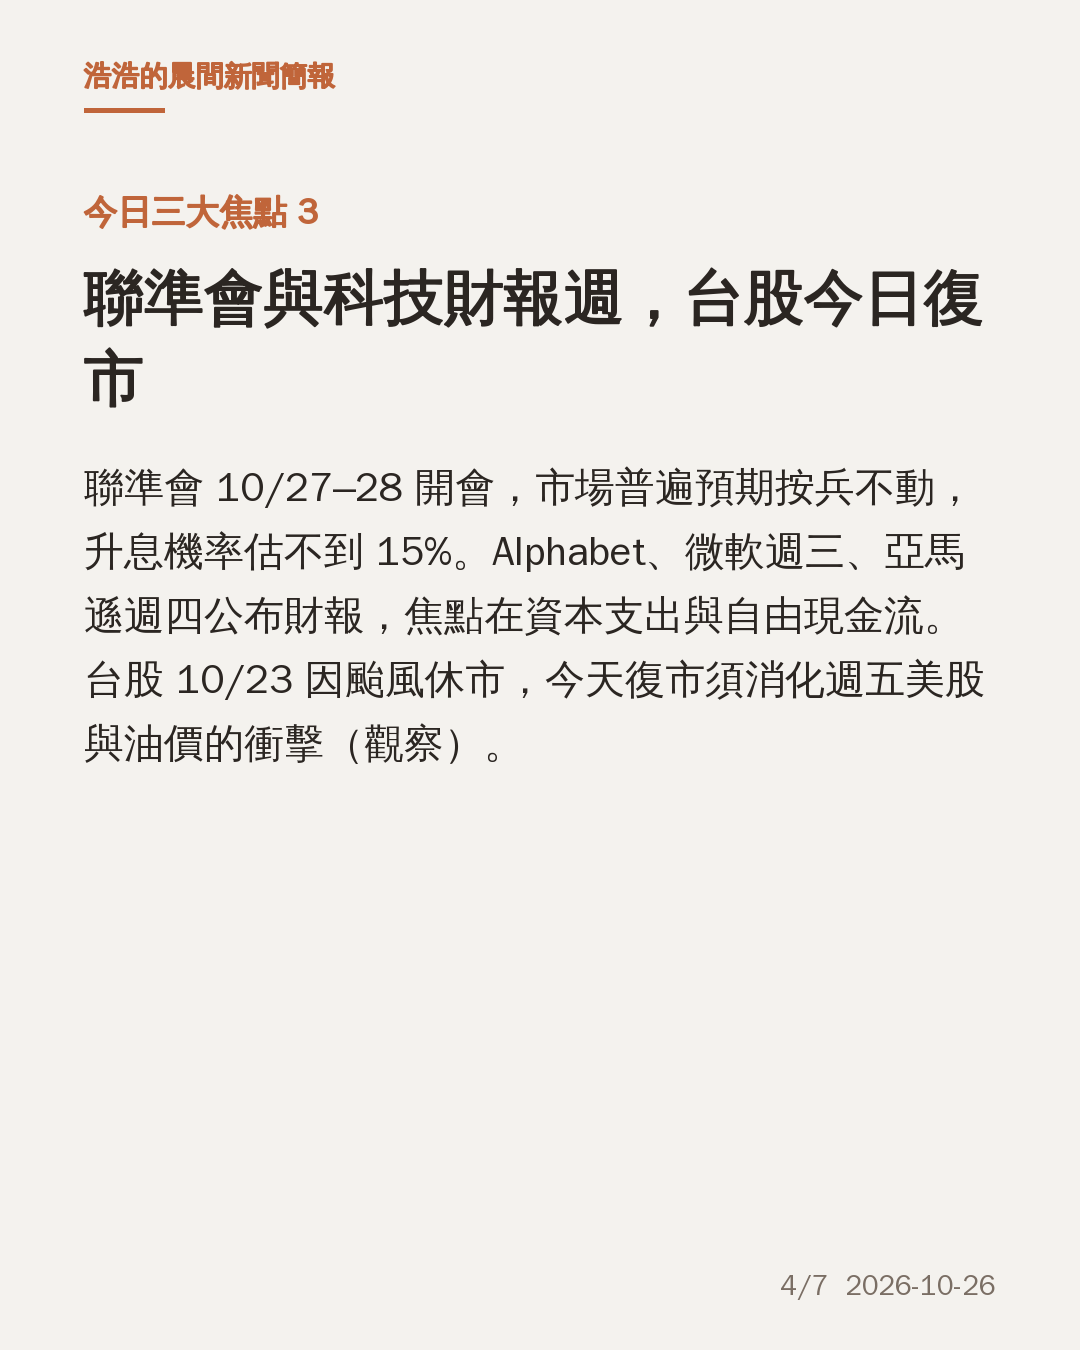
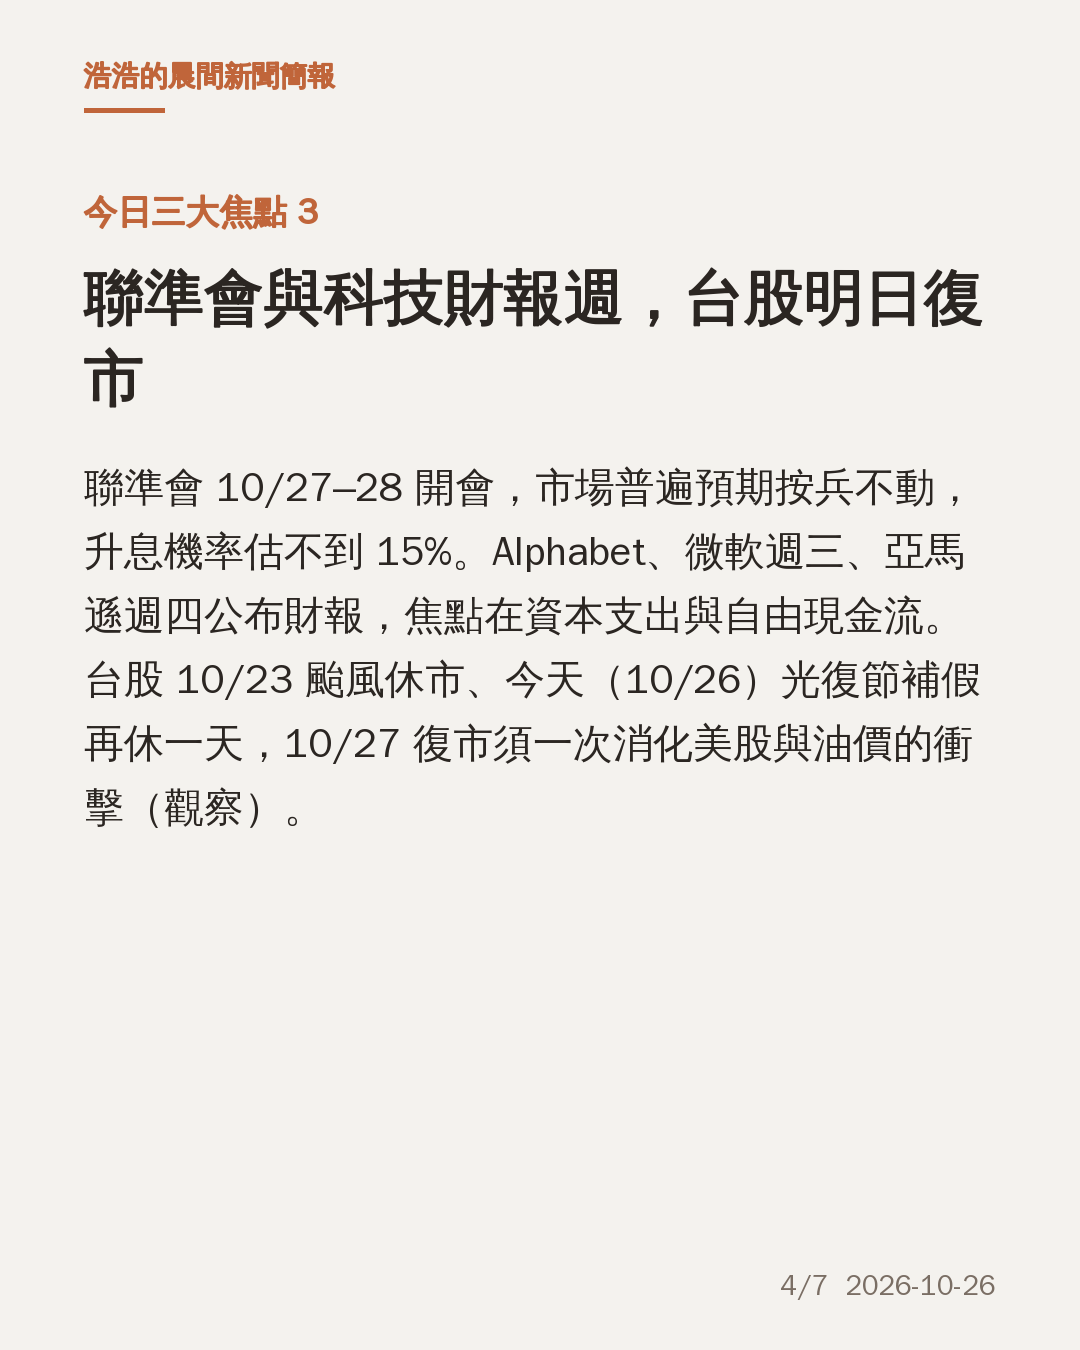
cards: 2026-10-26 晨間新聞簡報圖卡（更正：台股 10/26 補假休市）
Claude-Session: https://claude.ai/code/session_01QpmnMuXVvVJGmVUosZFJZ5

Changed region(s): [[0.0611, 0.4667, 0.9167, 0.6222], [0.7333, 0.1867, 0.7944, 0.2489]]

diff --git a/cards/2026-10-26/index.md b/cards/2026-10-26/index.md
@@ -2,7 +2,7 @@
 
 1. 美股收黑，AI 支出疑慮與油價壓抑風險偏好（10/23 收盤 Dow 52,215.16）
 2. 伊朗局勢反覆，布蘭特 10/22 收 113.17 美元
-3. 聯準會與科技財報週登場，台股今日復市
+3. 聯準會與科技財報週登場，台股 10/27 復市
 
 ![](01-cover.jpg)
 
